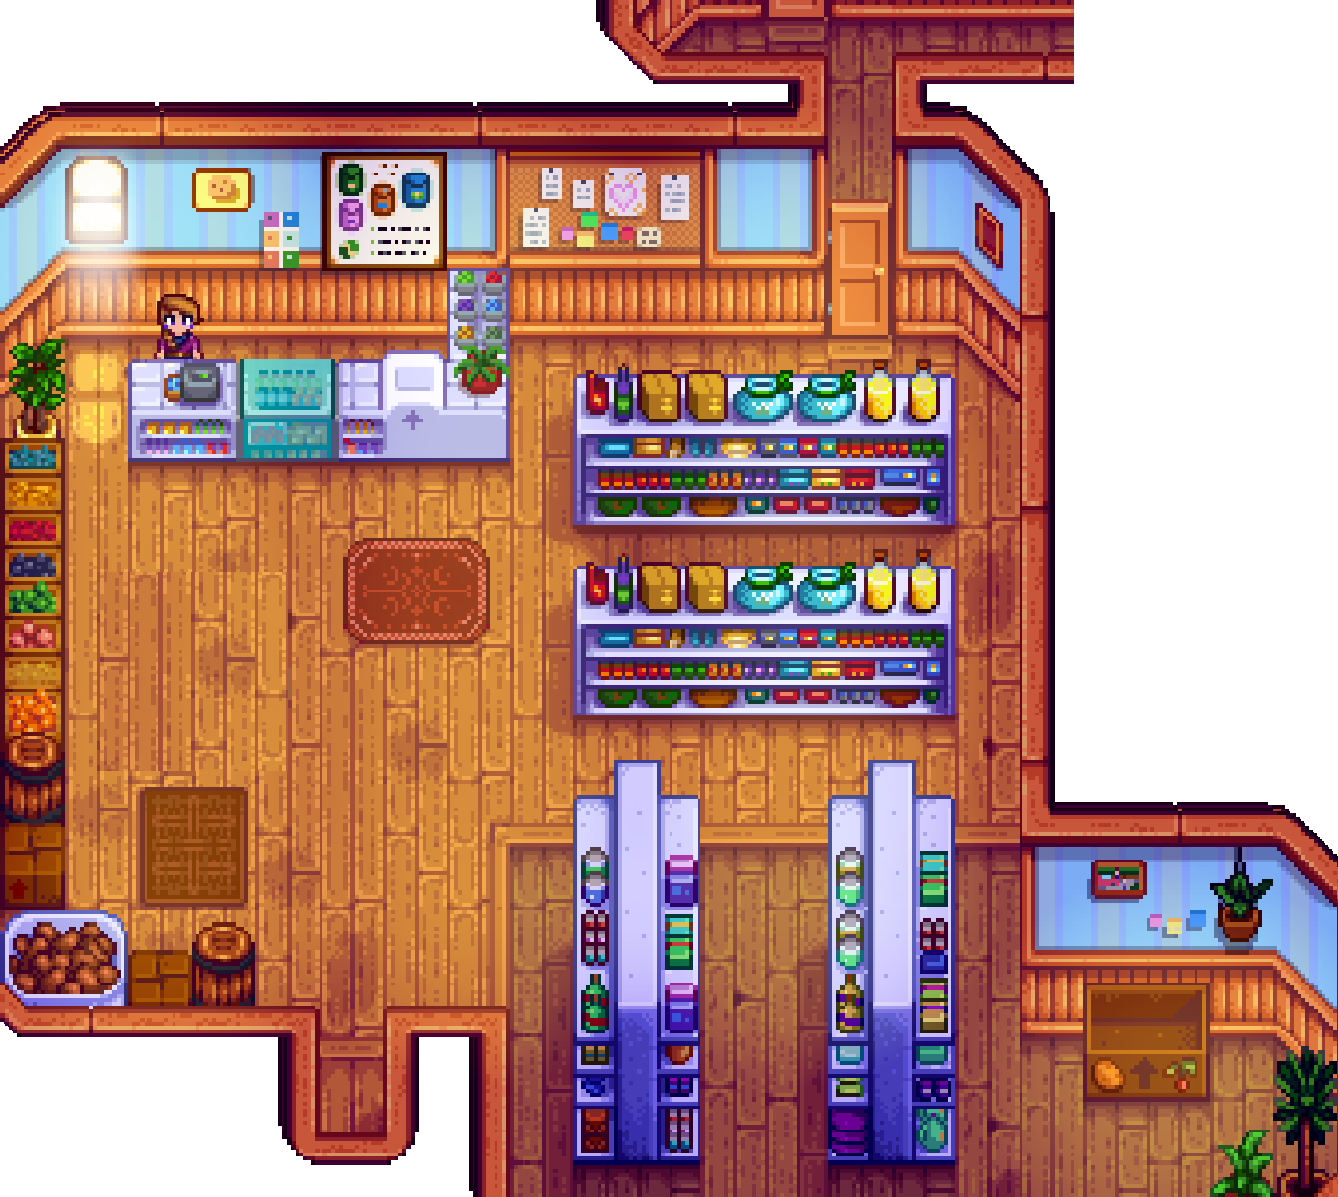
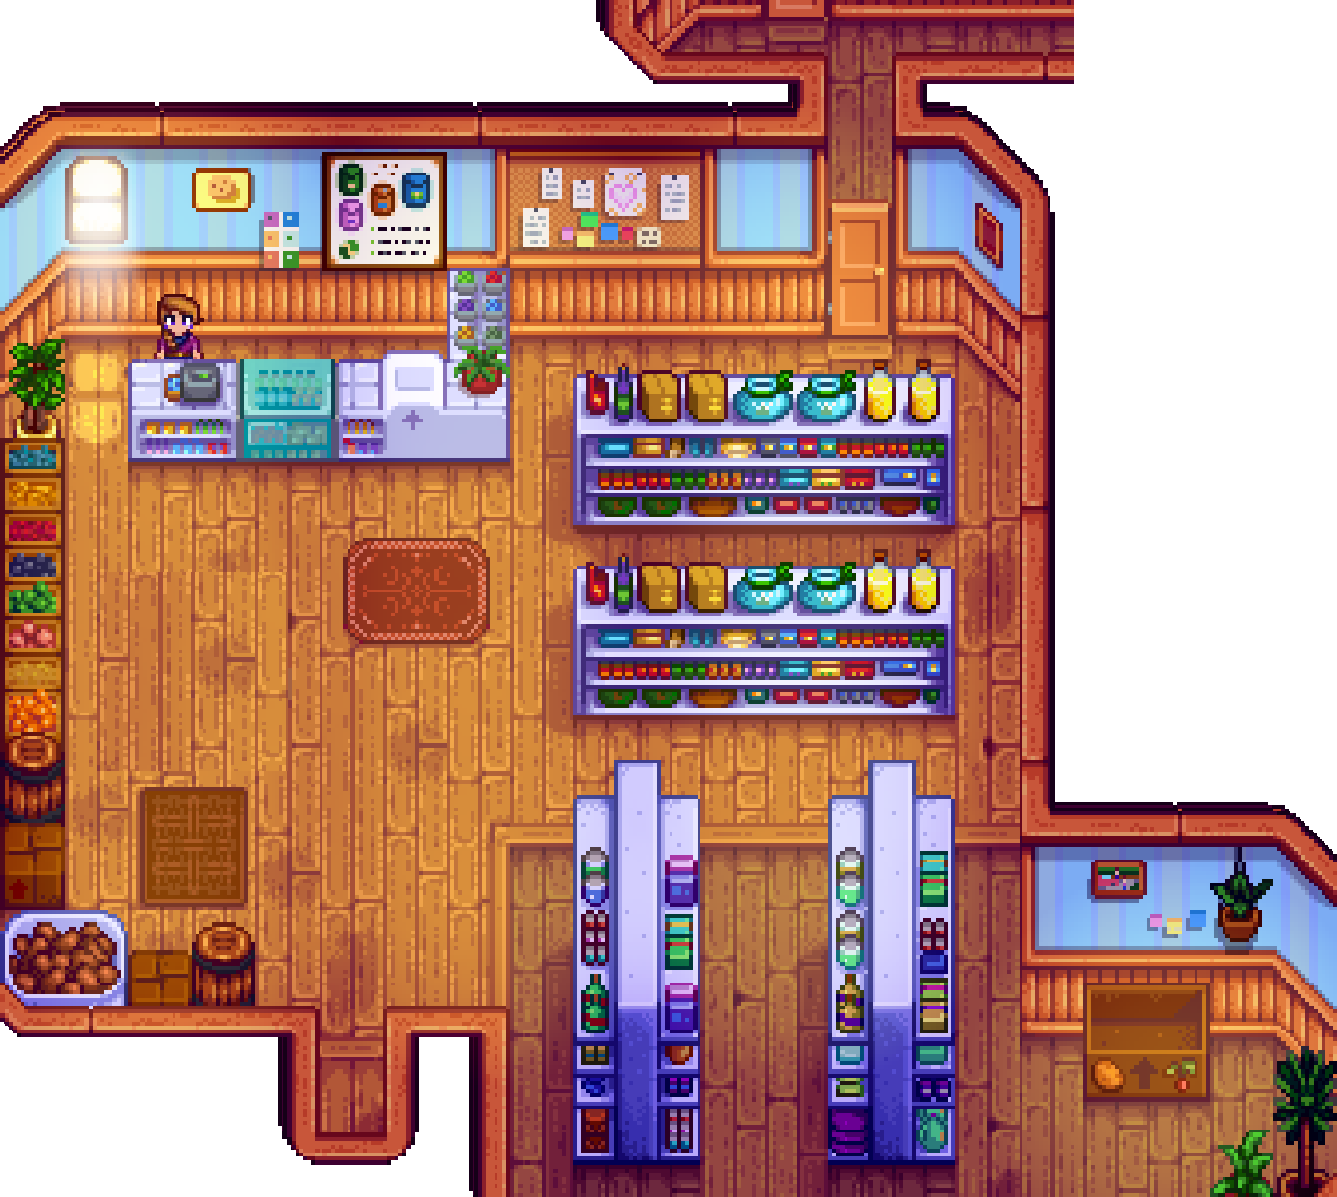
加了一个货架

diff --git a/makescene.py b/makescene.py
@@ -148,6 +148,12 @@ def mapGenerShop(nowmp):
     nowmp.mp[4][5]["interact"]=(sale,True)
     nowmp.mp[2][5]["interact"]=nowmp.mp[3][5]["interact"]=(shopownertalk(),True)
 
+    nowmp.mp[9][5]["type"]="wall"
+    nowmp.mp[9][5]["render"]=myImage(f'./assets/scene/shelf1.png',zoom=6)
+    
+    nowmp.mp[9][8]["type"]="wall"
+    nowmp.mp[9][8]["render"]=myImage(f'./assets/scene/shelf1.png',zoom=6)
+    
 scene0 = [
 [1,1],[1,2],[1,3],[1,4],[1,5],[1,6],[1,7],[1,8],[1,9],[1,10],[1,11],[1,12],[1,13],[1,14],[1,15],[1,16],[1,17],[1,18],[1,19],[1,20],[1,21],[1,22],[1,23],[1,24],[1,25],[1,26],[1,27],[1,28],[1,30],[1,31],
 [41,1],[41,2],[41,4],[41,5],[41,6],[41,7],[41,8],[41,9],[41,10],[41,11],[41,12],[41,13],[41,14],[41,15],[41,16],[41,17],[41,18],[41,19],[41,20],[41,21],[41,22],[41,23],[41,24],[41,25],[41,26],[41,27],[41,28],[41,29],[41,30],[41,31],

diff --git a/inter.py b/inter.py
@@ -176,7 +176,7 @@ if __name__ == "__main__":
 
         # segmentDraw.drawR(1,15,4,car,win)
         # segmentDraw.drawC(1,15,4,car,win)
-        # segmentDraw.drawSqure(1,15,2,3,car,win)
+        # segmentDraw.drawSqure(9,4,6,2,car,win)
 
         # dialoger.keyboard()
         dialoger.draw(win)
